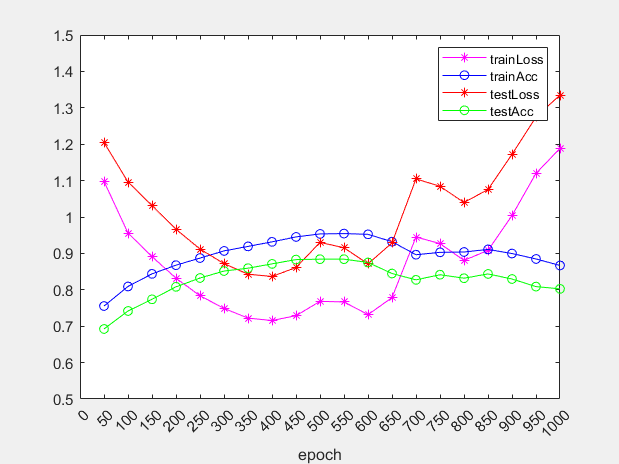
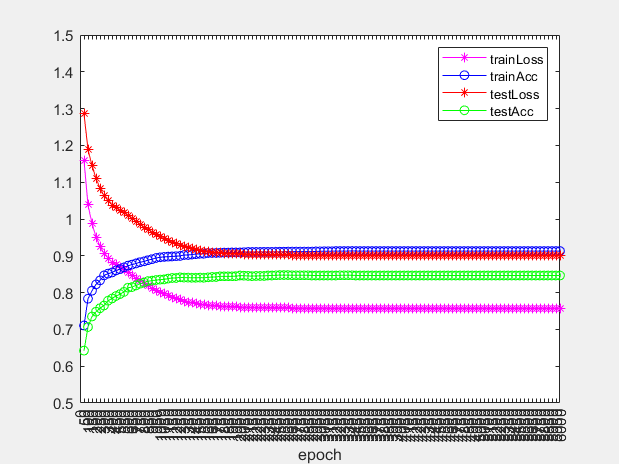
MLP batchnorm

diff --git a/task7_2_batchnorm.m b/task7_2_batchnorm.m
@@ -24,9 +24,9 @@ end
 
 
 % Network parameters
-layers = [128 * 128, 32 * 32, 8 * 8, 7]; % Deeper architecture
+layers = [128 * 128, 16 * 16, 8 * 8, 7]; % Deeper architecture
 initial_lr = 1e-3;
-epochs = 1000;
+epochs = 6000;
 varFrec = 50;
 
 
@@ -112,7 +112,7 @@ for i = 1:epochs
     
     %Learning rate scheduling: Reduce learning rate every 20 epochs
     if mod(i, 100) == 0
-        lr = lr * 0.99;
+        lr = lr * 0.8;
     end
     
     % Calculate and display metrics every 'varFrec' epochs
@@ -167,16 +167,18 @@ for i = 1:epochs
         % Reset timer
         lastVerifyTime = tic;
 
-        % Plot gradient max and min values dynamically
-        figure(2);
+        % Plot loss and accuracy
+        figure(1);
         clf;
         hold on;
-        plot(1:size(gradMaxValues, 1), gradMaxValues, '-r', 'LineWidth', 1.5);
-        plot(1:size(gradMinValues, 1), gradMinValues, '-b', 'LineWidth', 1.5);
-        title('Gradient Max and Min Values Over Epochs');
+        plot(1:size(trainLoss,2), trainLoss, '-*m', 'LineWidth', 1.5);
+        plot(1:size(trainAcc,2), trainAcc, '-ob', 'LineWidth', 1.5);
+        plot(1:size(testLoss,2), testLoss, '-*r', 'LineWidth', 1.5);
+        plot(1:size(testAcc,2), testAcc, '-og', 'LineWidth', 1.5);
+        title('Accuracy and Lost Values Over Epochs');
         xlabel('Verification Step');
-        ylabel('Gradient Value');
-        legend('Max Gradient', 'Min Gradient');
+        ylabel('Loss or Accuracy Value');
+        legend('trainLoss', 'trainAcc','testLoss', 'testAcc');
         grid on;
         drawnow;
     end
@@ -185,11 +187,11 @@ end
 % Plot results
 fig = figure;
 x = varFrec:varFrec:epochs;
-plot(x, trainLoss, '-*b', x, trainAcc * 100, '-ob', x, testLoss, '-*r', x, testAcc * 100, '-or');
-axis([0, epochs, 0, 100])
+plot(x, trainLoss, '-*m', x, trainAcc, '-ob', x, testLoss, '-*r', x, testAcc, '-og');
+axis([0, epochs, 0.5, 1.5])
 set(gca, 'XTick', [0:varFrec:epochs])
-set(gca, 'YTick', [0:5:100])
-legend('trainLoss', 'trainAcc (%)', 'testLoss', 'testAcc (%)');
+set(gca, 'YTick', [0.5:0.1:1.5])
+legend('trainLoss', 'trainAcc', 'testLoss', 'testAcc');
 xlabel('epoch')
 imwrite(frame2im(getframe(fig)), 'results.png');
 
